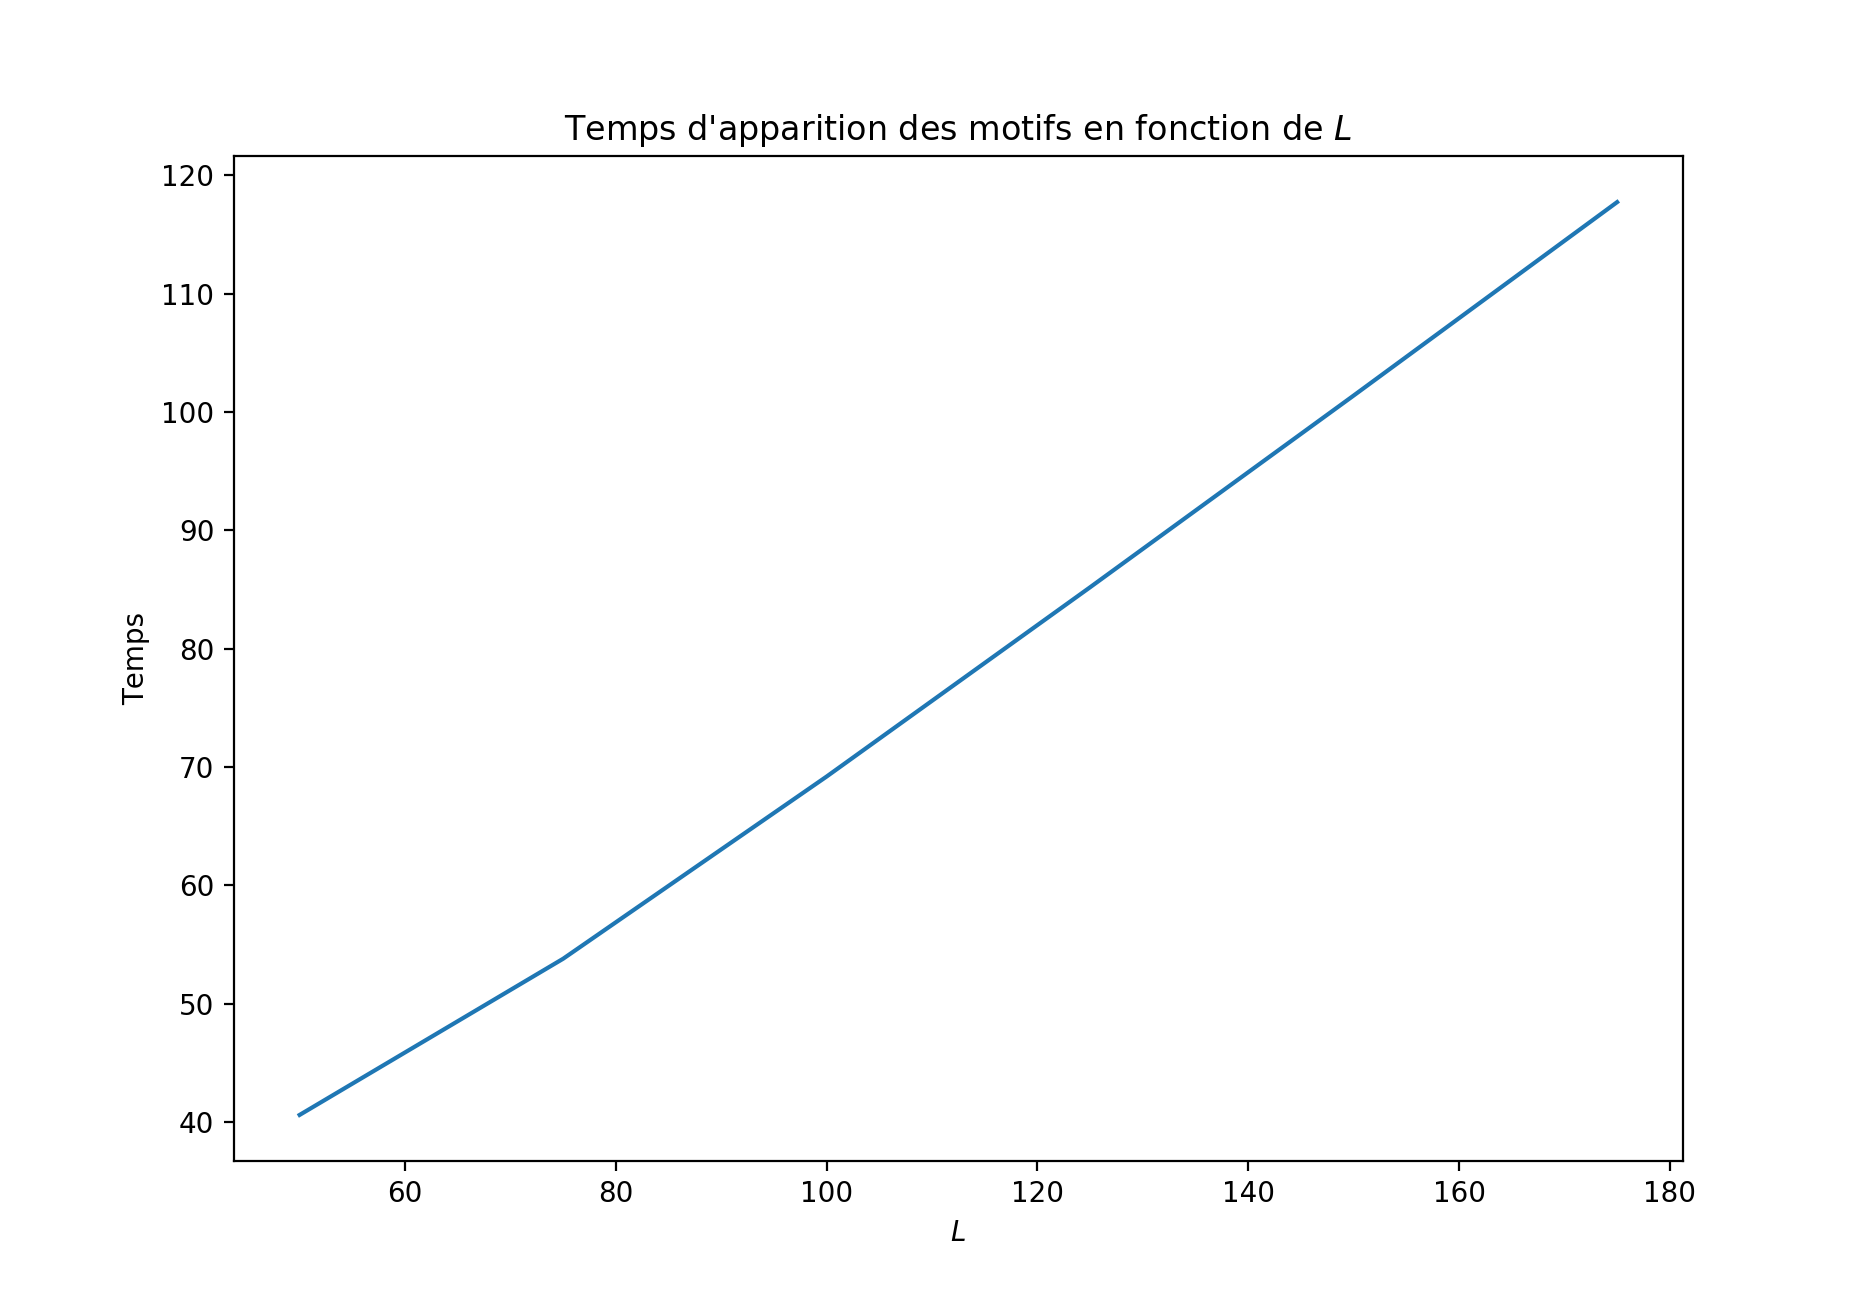
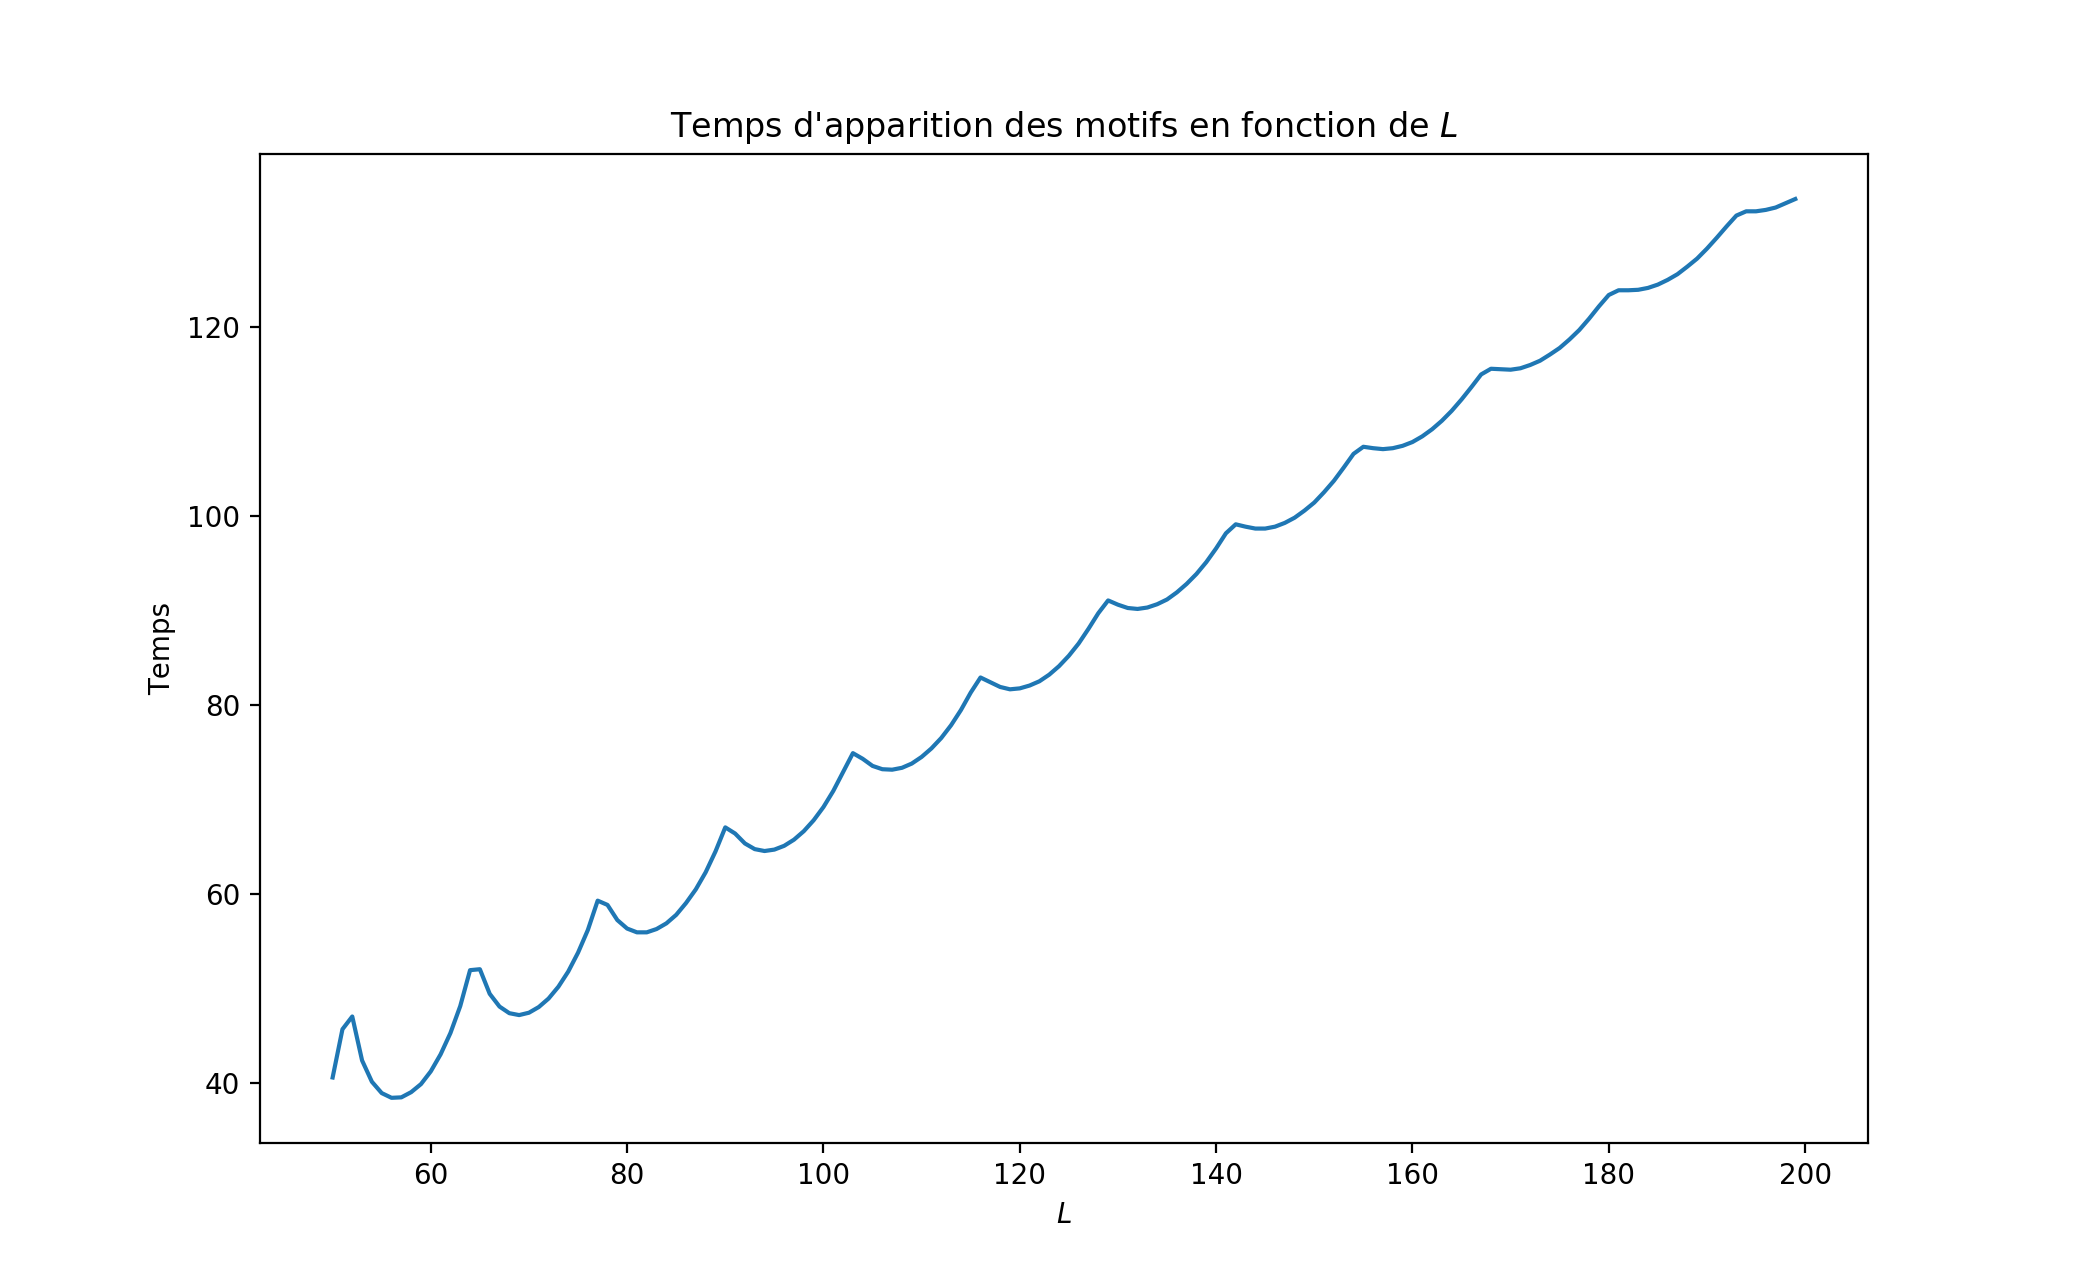
Correction code longueurs d'onde

diff --git a/pattern.py b/pattern.py
@@ -130,7 +130,7 @@ def SH(f0,r,L):
 
     return U, x_range, [L, T, h, dt, r, T, M, N]
 
-#SH(u_0, 0.2, 100)
+#SH(u_0, 0.2, 200)
 
 ##################################### Ex1 (b), mesure du temps d'apparition des motifs en fonction de r et L #########################
 
@@ -197,24 +197,14 @@ def tl_mesure(f0,r,L):
                 t_pattern = j*dt
                 # Longueur d'onde
                 ua = np.abs(uk)
-                us = np.unique(np.sort(ua))
-                #k_f = np.abs(ua.tolist().index(max(ua))) + N/36
-                #k_f = np.array(np.where(ua == max(ua))) - N/2
-
-                k1 = np.array(np.where(ua == us[-1])) - N/2
-                k2 = np.array(np.where(ua == us[-2])) - N/2
-                k3 = np.array(np.where(ua == us[-3])) - N/2
-
-                lamb_1 = np.max(2*pi/k1)
-                lamb_2 = np.max(2*pi/k2)
-                lamb_3 = np.max(2*pi/k3)
+                k_max = np.min(np.abs(np.where(ua == np.max(ua)))) - N/2
                 break
 
         else :
             if Départ :
                 Départ = False
 
-    return t_pattern, np.array([lamb_1,lamb_2,lamb_3])
+    return t_pattern, 2*pi/k_max
 
 
 def rL_effect(u0, r_range, L_range):
@@ -251,42 +241,32 @@ def r_effect(u0, r_range):
     """Mesure du temps d'apparition des motifs et de leurs longueur d'onde en fonction de r"""
     L = 100
     time = np.zeros((len(r_range)))
-    wavelength1 = np.zeros((len(r_range)))
-    wavelength2 = np.zeros((len(r_range)))
-    wavelength3 = np.zeros((len(r_range)))
+    wavelength = np.zeros((len(r_range)))
 
     for n,r in enumerate(r_range):
         t_,l_ = tl_mesure(u0, r, L)
         time[n] = t_
-        wavelength1[n] = l_[0]
-        wavelength2[n] = l_[1]
-        wavelength3[n] = l_[2]
+        wavelength[n] = np.abs(l_)
 
     plt.plot(r_range, time)
     plt.xlabel("$r$")
-    plt.ylabel("Temps")
+    plt.ylabel("Temps $t$")
     plt.title("Temps d'apparition des motifs en fonction de $r$")
     plt.show()
     plt.clf()
-
-    plt.plot(r_range, wavelength1)
+    
+    plt.plot(r_range, wavelength)
     plt.xlabel("$r$")
-    plt.ylabel("Longueur d'onde")
+    plt.ylabel("Longueur d'onde $\lambda$")
     plt.title("Longueur d'onde principale des motifs en fonction de $r$")
     plt.show()
     plt.clf()
 
-    plt.plot(r_range, wavelength2)
+    plt.plot(r_range, wavelength, label = "$\lambda$")
+    plt.plot(r_range, time/80, label = "$t/80$")
     plt.xlabel("$r$")
-    plt.ylabel("Longueur d'onde")
-    plt.title("Longueur d'onde secondaire des motifs en fonction de $r$")
-    plt.show()
-    plt.clf()
-
-    plt.plot(r_range, wavelength3)
-    plt.xlabel("$r$")
-    plt.ylabel("Longueur d'onde")
-    plt.title("Longueur d'onde tertiaire des motifs en fonction de $r$")
+    plt.title("Longueur d'onde principale des motifs et temps d'apparition \nen fonction de $r$")
+    plt.legend()
     plt.show()
     plt.clf()
 
@@ -294,16 +274,12 @@ def L_effect(u0, L_range):
     """"Mesure du temps d'apparition des motifs et de leurs longueur d'onde en fonction de L"""
     r = 0.2
     time = np.zeros((len(L_range)))
-    wavelength1 = np.zeros((len(L_range)))
-    wavelength2 = np.zeros((len(L_range)))
-    wavelength3 = np.zeros((len(L_range)))
+    wavelength = np.zeros((len(L_range)))
 
     for n,l in enumerate(L_range):
         t_,l_ = tl_mesure(u0, r, l)
         time[n] = t_
-        wavelength1[n] = np.abs(l_[0])
-        wavelength2[n] = np.abs(l_[1])
-        wavelength3[n] = np.abs(l_[2])
+        wavelength[n] = np.abs(l_)
 
     plt.plot(L_range, time)
     plt.xlabel("$L$")
@@ -311,33 +287,28 @@ def L_effect(u0, L_range):
     plt.title("Temps d'apparition des motifs en fonction de $L$")
     plt.show()
     plt.clf()
-
-    plt.plot(L_range, wavelength1)
+    
+    plt.plot(L_range, wavelength)
     plt.xlabel("$L$")
     plt.ylabel("Longueur d'onde")
     plt.title("Longueur d'onde principale des motifs en fonction de $L$")
     plt.show()
     plt.clf()
 
-    plt.plot(L_range, wavelength2)
+    plt.plot(L_range, wavelength, label = "$\lambda$")
+    plt.plot(L_range, time/80, label = "$t/80$")
     plt.xlabel("$L$")
     plt.ylabel("Longueur d'onde")
-    plt.title("Longueur d'onde secondaire des motifs en fonction de $L$")
-    plt.show()
-    plt.clf()
-
-    plt.plot(L_range, wavelength3)
-    plt.xlabel("$L$")
-    plt.ylabel("Longueur d'onde")
-    plt.title("Longueur d'onde tertiaire des motifs en fonction de $L$")
+    plt.title("Longueur d'onde principale des motifs et temps d'apparition \nen fonction de $L$")
+    plt.legend()
     plt.show()
     plt.clf()
 
 
 
 #rL_effect(u_0, np.arange(-0.05,0.25,0.05), [25,50,100,150,200])
-#r_effect(u_0, np.arange(-0.05, 0.25, 0.01))
-L_effect(u_0, np.arange(50,200, 1))
+r_effect(u_0, np.arange(-0.05, 0.25, 0.01))
+L_effect(u_0, np.arange(50,200,2))
 
 
 ########################################## Ex2, mesure de A^2 et diagrame de bifurcation##############################################
@@ -432,4 +403,4 @@ def r_bifurcation(u0, r_range):
 
     return integ
 
-r_bifurcation(u_0, np.arange(-0.01,0.07,0.004))
+#r_bifurcation(u_0, np.arange(-0.01,0.07,0.004))
